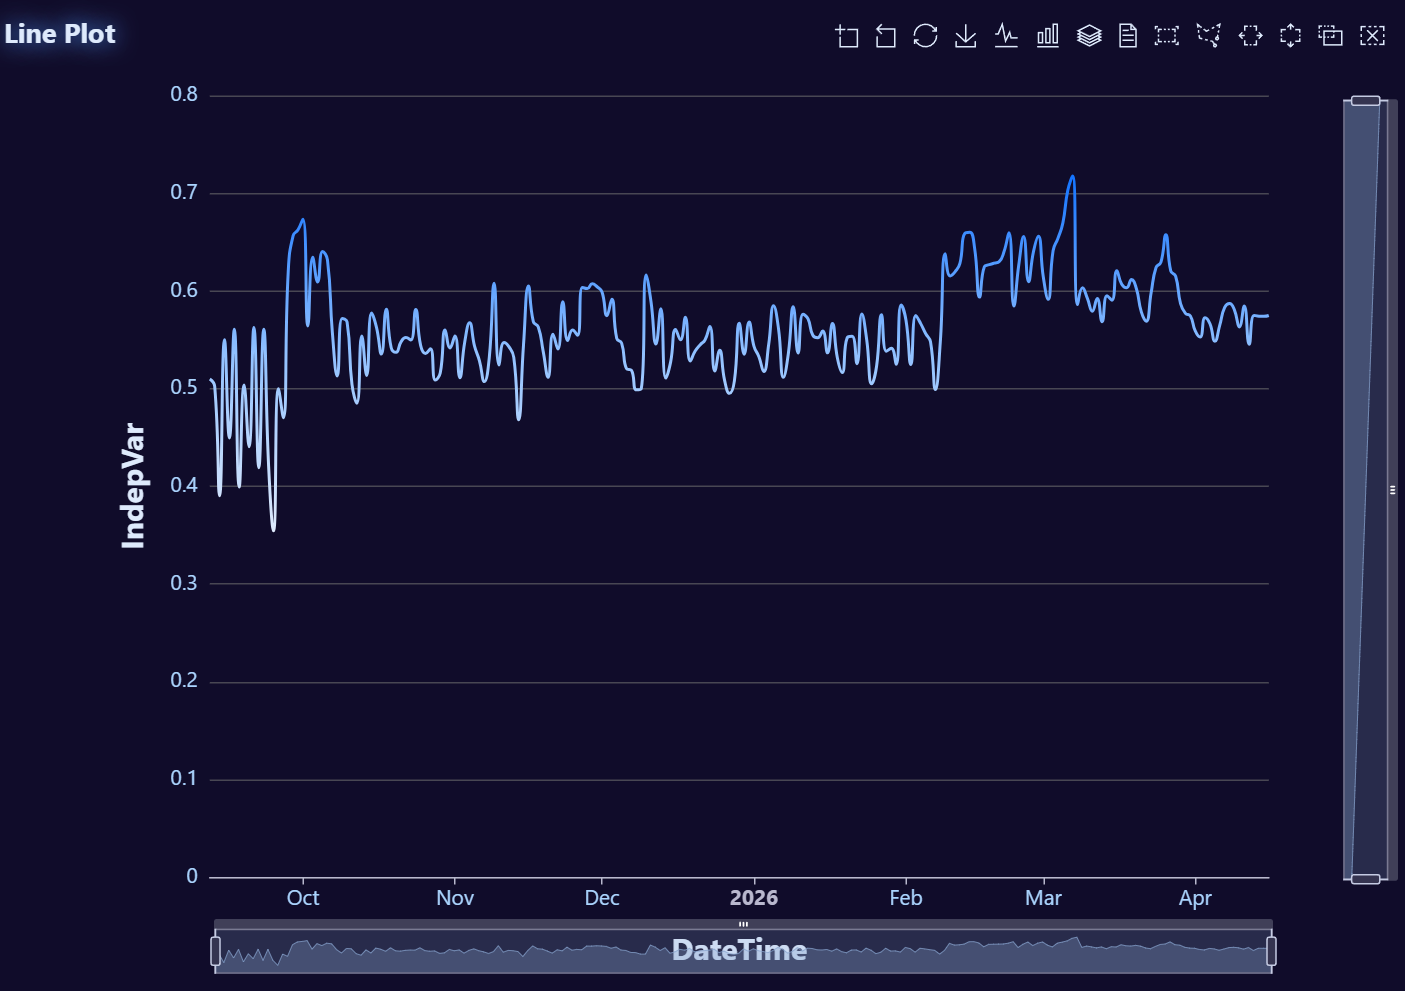
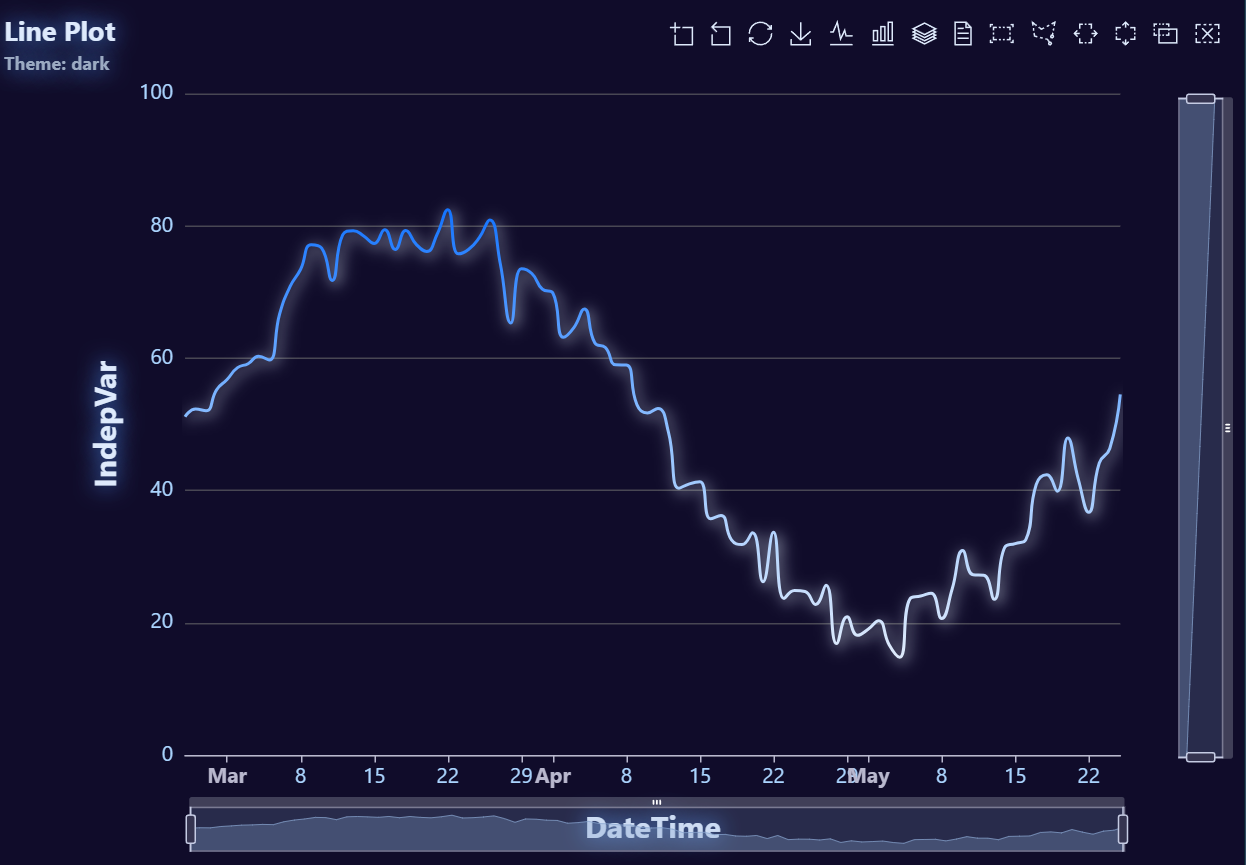
Update README

diff --git a/README.md b/README.md
@@ -865,17 +865,33 @@ AutoPlots::display_plots_grid(
 <details><summary>Line Plot Examples</summary>
 
 ```r
-# Create data
-data <- AutoPlots::FakeDataGenerator(N = 1000, AddDate = T)
-data <- data[, .(
-  IndepVar = mean(Independent_Variable8)
-), by = c("DateTime")]
+# Create example data (no FakeDataGenerator)
+data <- data.table::data.table(
+  DateTime = seq.Date(
+    from = Sys.Date() - 89,
+    to   = Sys.Date(),
+    by   = "day"
+  )
+)
+
+# Smooth wave + a bit of noise for a nice area shape
+data[, IndepVar := 50 +
+       30 * sin(seq(0, 2 * pi, length.out = .N)) +
+       stats::rnorm(.N, mean = 0, sd = 3)]
+
+# Optional: ensure values stay positive for cleaner visuals
+data[IndepVar < 0, IndepVar := 0]
+data[, IndepVar2 := jitter(IndepVar, amount = 5)]
+data[, Var2 := jitter(IndepVar, amount = 25)]
+data[, Var3 := jitter(Var2, amount = 25)]
 
 # Build plot
 AutoPlots::Line(
   dt = data,
   XVar = "DateTime",
-  YVar = "IndepVar"
+  YVar = "IndepVar",
+  title.text = "Line Plot",
+  title.subtext = "Theme: dark"
 )
 ```
 
@@ -1486,17 +1502,33 @@ AutoPlots::StackedBar(
 <details><summary>Step Plot Examples</summary>
 
 ```r
-# Create data
-data <- AutoPlots::FakeDataGenerator(N = 1000, AddDate = T)
-data <- data[, .(
-  IndepVar = mean(Independent_Variable8)
-), by = c("DateTime")]
+# Create example data (no FakeDataGenerator)
+data <- data.table::data.table(
+  DateTime = seq.Date(
+    from = Sys.Date() - 89,
+    to   = Sys.Date(),
+    by   = "day"
+  )
+)
+
+# Smooth wave + a bit of noise for a nice area shape
+data[, IndepVar := 50 +
+       30 * sin(seq(0, 2 * pi, length.out = .N)) +
+       stats::rnorm(.N, mean = 0, sd = 3)]
+
+# Optional: ensure values stay positive for cleaner visuals
+data[IndepVar < 0, IndepVar := 0]
+data[, IndepVar2 := jitter(IndepVar, amount = 5)]
+data[, Var2 := jitter(IndepVar, amount = 25)]
+data[, Var3 := jitter(Var2, amount = 25)]
 
 # Build plot
 AutoPlots::Step(
   dt = data,
   XVar = "DateTime",
-  YVar = "IndepVar"
+  YVar = "IndepVar",
+  title.text = "Step Plot",
+  title.subtext = "Theme: dark"
 )
 ```
 